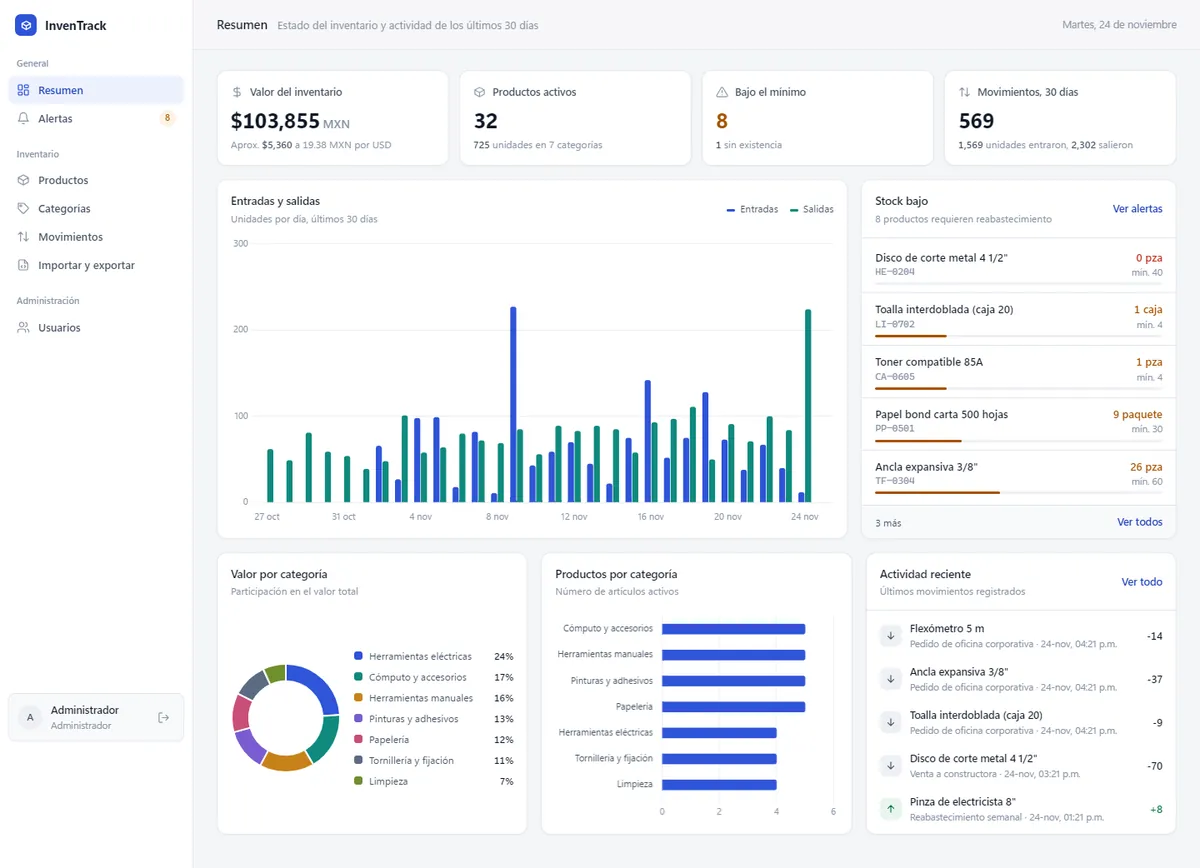
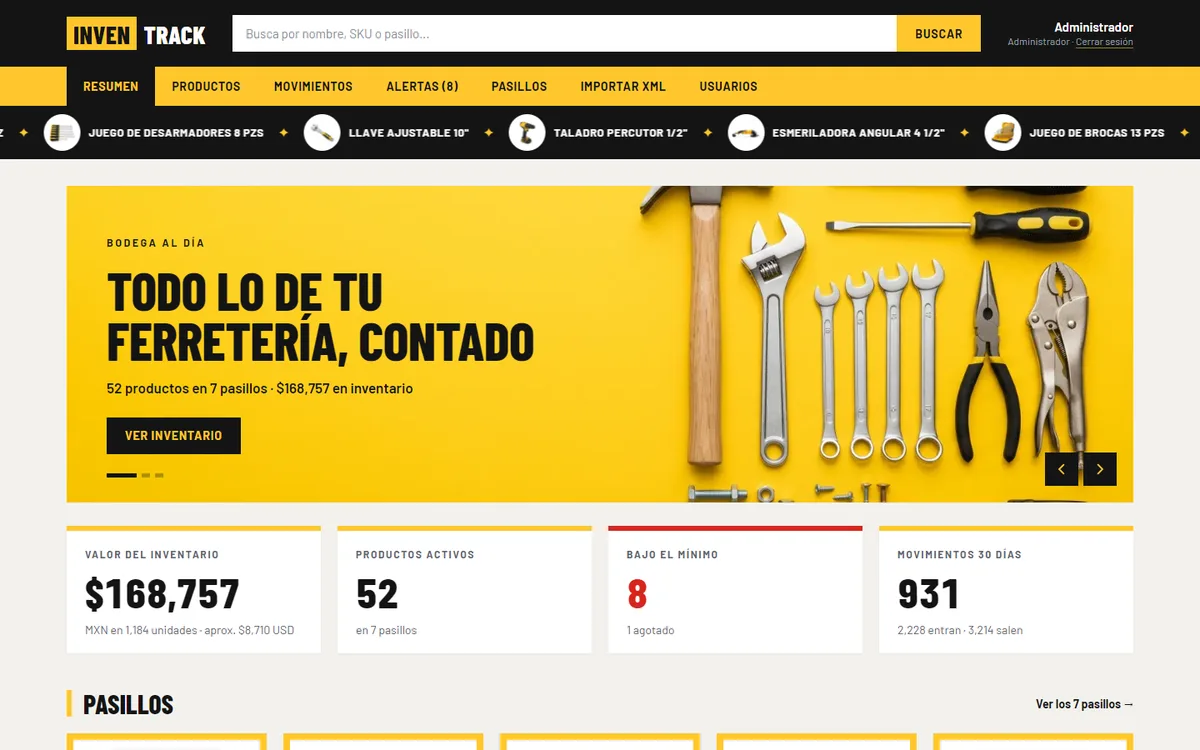
InvenTrack: new hardware-store screenshot and description

diff --git a/src/i18n.ts b/src/i18n.ts
@@ -219,7 +219,7 @@ const es = {
       { src: "/shots/springcloud-eureka.webp", w: 1200, h: 750, alt: "Captura del panel de Eureka con api-gateway, catalog, inventory y order registrados." },
       { src: "/shots/minijava-run.webp", w: 1200, h: 751, alt: "Captura del IDE de minijava-compiler ejecutando Recursion.mjava compilado a nativo, con la salida del programa." },
       { src: "/shots/minijava-editor.webp", w: 1200, h: 751, alt: "Captura del editor oscuro de minijava-compiler con Showcase.mjava y la tabla de símbolos." },
-      { src: "/shots/inventrack-dashboard.webp", w: 1200, h: 868, alt: "Captura del dashboard rediseñado de inventrack con valor del inventario, entradas y salidas, y stock bajo." },
+      { src: "/shots/inventrack-dashboard.webp", w: 1200, h: 750, alt: "Captura de inventrack con estilo de ferretería: carrusel de productos, pasillos con foto y productos por surtir." },
       { src: "/shots/kurocute-store.webp", w: 1200, h: 750, alt: "Captura de la portada de kurocute, tiendita de fans de Kuromi, con collage de ilustraciones y buscador." },
       { src: "/shots/kurocute-dashboard.webp", w: 1200, h: 750, alt: "Captura del back office de kurocute con cobrado del mes, ingresos por mes y facturas por estado." },
     ] as MediaShot[],
@@ -228,7 +228,7 @@ const es = {
       { repo: "spring-cloud-microservices", desc: "Gateway, Eureka, Config Server y 3 servicios, con consola de operaciones y 49 pruebas." },
       { repo: "mi-mascota-citas", desc: "Citas veterinarias en ASP.NET Core MVC, disponibilidad con AJAX, 48 pruebas." },
       { repo: "datavault-android", desc: "Bóveda AES-256 en Kotlin y Jetpack Compose, con asistente de IA." },
-      { repo: "inventrack", desc: "Astro y PostgreSQL con dashboard rediseñado, alertas de stock por correo, desplegado en Railway." },
+      { repo: "inventrack", desc: "Astro y PostgreSQL con estilo de ferretería: 52 productos con foto, carrusel animado y alertas por correo." },
       { repo: "qaflow-testing-portfolio", desc: "Pruebas de QA: Postman 30/30, Cypress 4/4 y SQL 10/10." },
       { repo: "minijava-compiler", desc: "Compilador de un lenguaje tipo Java hecho desde cero, con IDE propio y backend nativo x86-64 que soporta recursión." },
       { repo: "kurocute", desc: "Tienda y facturación en Laravel 13 con carrito, dashboard, facturas PDF y 76 pruebas." },
@@ -613,7 +613,7 @@ const en: Dict = {
       { src: "/shots/springcloud-eureka.webp", w: 1200, h: 750, alt: "Screenshot of the Eureka dashboard with api-gateway, catalog, inventory and order registered." },
       { src: "/shots/minijava-run.webp", w: 1200, h: 751, alt: "Screenshot of the minijava-compiler IDE running Recursion.mjava compiled to native code, with the program output." },
       { src: "/shots/minijava-editor.webp", w: 1200, h: 751, alt: "Screenshot of the minijava-compiler dark editor with Showcase.mjava and the symbol table." },
-      { src: "/shots/inventrack-dashboard.webp", w: 1200, h: 868, alt: "Screenshot of the redesigned inventrack dashboard with inventory value, stock in and out, and low stock." },
+      { src: "/shots/inventrack-dashboard.webp", w: 1200, h: 750, alt: "Screenshot of inventrack with a hardware-store look: product carousel, aisles with photos and items to restock." },
       { src: "/shots/kurocute-store.webp", w: 1200, h: 750, alt: "Screenshot of the kurocute storefront, a Kuromi fan shop, with an illustration collage and search." },
       { src: "/shots/kurocute-dashboard.webp", w: 1200, h: 750, alt: "Screenshot of the kurocute back office with monthly revenue, revenue by month and invoices by status." },
     ],
@@ -622,7 +622,7 @@ const en: Dict = {
       { repo: "spring-cloud-microservices", desc: "Gateway, Eureka, Config Server and 3 services, with an ops console and 49 tests." },
       { repo: "mi-mascota-citas", desc: "Vet appointment booking on ASP.NET Core MVC with AJAX availability, 48 tests." },
       { repo: "datavault-android", desc: "AES-256 vault in Kotlin and Jetpack Compose, with an AI assistant." },
-      { repo: "inventrack", desc: "Astro and PostgreSQL with a redesigned dashboard and email stock alerts, deployed on Railway." },
+      { repo: "inventrack", desc: "Astro and PostgreSQL with a hardware-store look: 52 products with photos, animated carousel and email alerts." },
       { repo: "qaflow-testing-portfolio", desc: "QA testing: Postman 30/30, Cypress 4/4 and SQL 10/10." },
       { repo: "minijava-compiler", desc: "Compiler for a small Java-like language, written from scratch, with its own IDE and a native x86-64 back end that handles recursion." },
       { repo: "kurocute", desc: "Laravel 13 store and invoicing app with cart, dashboard, PDF invoices and 76 tests." },
